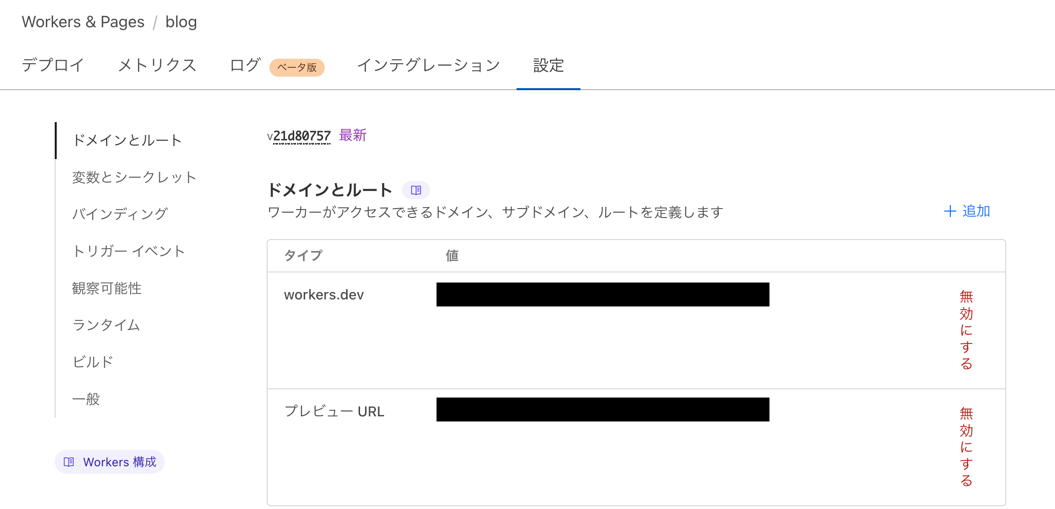
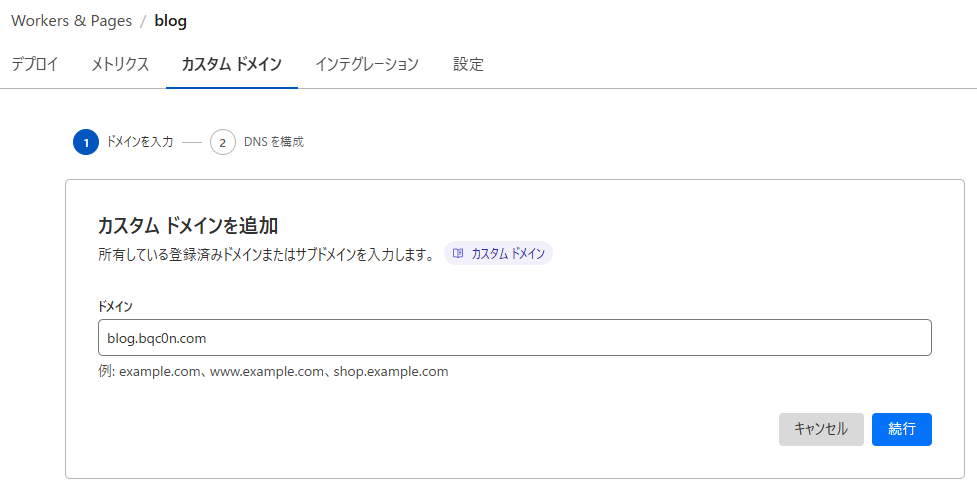
feat: migrate workers -> pages

diff --git a/docs/posts/2025/0205-blog.md b/docs/posts/2025/0205-blog.md
@@ -609,19 +609,25 @@ Cloudflare Dashboardの仕様はよく変わるので、その時は都度読み
 
 GitHubとの連携は済ませてある前提とする。
 
-[Cloudflare Dashboard](https://dash.cloudflare.com/)から、Workersを選択して、右上の作成ボタンをクリック。
+[Cloudflare Dashboard](https://dash.cloudflare.com/)から、Workers & Pages -> 右上の作成ボタン -> Pages -> Gitと遷移する。
 
-blogのリポジトリを選択すると、様々な項目を入力する画面に遷移するので、プロジェクト名とブランチを適切に設定する。
-またビルドコマンドには`bun run docs:build`、デプロイコマンドには`bunx wrangler deploy --assets ./docs/.vitepress/dist/ --name blog --compatibility-date 2025-02-04`を設定する。
-![cloudflare-pages-deploy](./0205-blog-cf-pages.png)
+![cloudflare-git-repo](./0205-blog-cf-git-repo.png)
 
-次にカスタムドメインの設定をする。
-Pagesからblogの詳細ページに行ったら、設定タブに移動する。
+blogのリポジトリを選択しセットアップ開始。
+
+ビルドコマンドには`bun run docs:build`、ビルド出力ディレクトリには`docs/.vitepress/dist`を設定する。
+加えて、環境変数に`NODE_VERSION=23.7.0`を追加しておく。
+
+
+![cloudflare-build-settings](./0205-blog-cf-build-settings.png)
+
+「保存してデプロイ」を押すとビルドが始まる。
+
+ビルドが終わったら、Pagesからblogの設定ページを開いて、カスタムドメインを追加する。
+
 ![cloudflare-pages-domain](./0205-blog-cf-domain.png)
-右上の追加を押して、カスタムドメインを選択して設定する。
-![cloudflare-pages-domain](./0205-blog-cf-domain-2.png)
 
-以上でデプロイ完了で、ブログ完成。
+以上でデプロイ完了、ブログ完成。
 
 [^r1]: https://nshmura.com/posts/migration-to-vitepress/
 [^r2]: https://blog.hakuteialpha.com/posts/vitepress-blog/

diff --git a/README.md b/README.md
@@ -1,4 +1,6 @@
-# blog
+# Source Code for My Blog
+
+[blog.bqc0n.com](https://blog.bqc0n.com) (Japanese)
 
 ## File Structure
 
